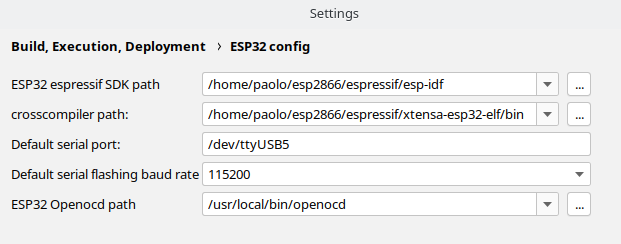
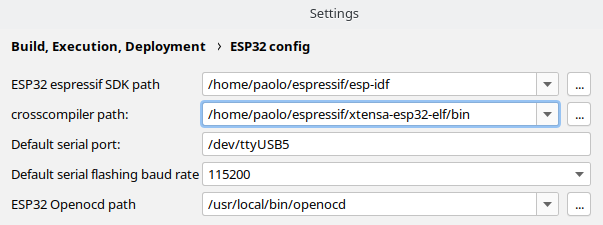
documentations

diff --git a/README.md b/README.md
@@ -7,3 +7,13 @@ In the setting menu, under *Build,Execution, Deployment*, you can find the *ESP3
 
 ![setup](/docs/images/setup.png)
 
+- [ESP32 espressif SDK path](#ESP32 espressif SDK path)
+- crosscompiler path
+- Default serial port
+- Default serial flashing baud rate
+- ESP32 Openocd path
+
+### ESP32 espressif SDK path
+
+This is the path where you installed the ESP32 esk, that is the path where you clone the repository
+https://github.com/espressif/esp-idf.git
